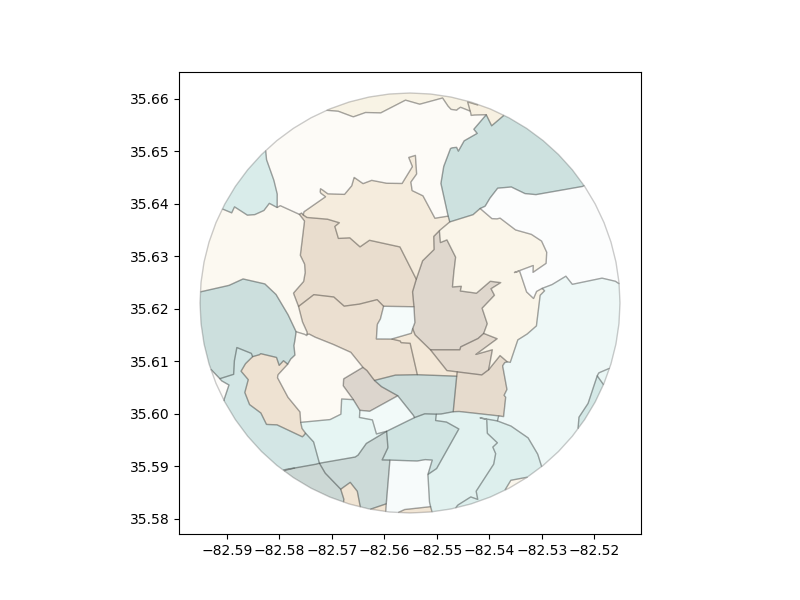
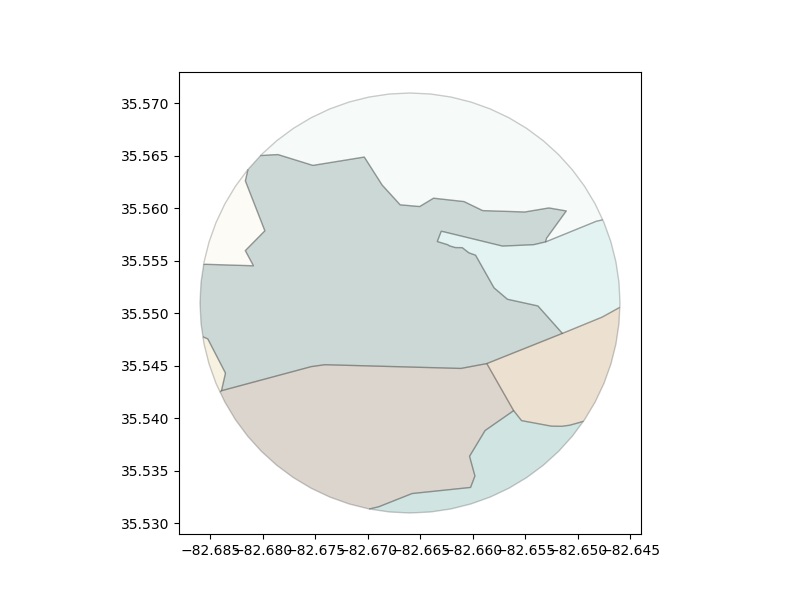
added map of food locs overlaid on block groups and backgound map

diff --git a/main.py b/main.py
@@ -30,10 +30,9 @@ target_address = '627 Swannanoa River Road Asheville, NC 28805-2445'
 if len(sys.argv) == 2:
     target_address = sys.argv[1]
 
-print("Geocoding: {}".format(sys.argv[1]))
+print("Geocoding: {}".format(target_address))
 
-target_loc = gpd.tools.geocode([target_address],
-                               provider='nominatim', )
+target_loc = gpd.tools.geocode(target_address, provider='nominatim')
 
 # we have a successful geocode
 assert len(target_loc) == 1
@@ -81,7 +80,7 @@ target_pnts_df = gpd.GeoDataFrame(target_loc)
 # target_pnts_df.crs = {'init' : mercator_crs}
 # target_pnts_df.to_crs(epsg=mercator_crs)
 
-circles = target_pnts_df['geometry'].buffer(0.04)
+circles = target_pnts_df['geometry'].buffer(0.02)
 circles_df = gpd.GeoDataFrame(circles)
 circles_df.geometry = circles
 circles_df.crs = {'init': 'GRS80'}
@@ -112,11 +111,14 @@ food_coverage.plot(ax=ax, cmap='BrBG', alpha=0.2, edgecolor='k')
 # f.show()
 f.savefig('generated_maps/selected_blockgroups.png')
 
-bun_geo_mecator = bun_geo.to_crs(epsg=3857)
-f, ax = plt.subplots(figsize=(8, 6))
-bun_geo_mecator.plot(figsize=(30, 30), alpha=0.2, edgecolor='k', cmap='YlGnBu', ax=ax)
-add_basemap(ax, zoom=10, url=ctx.sources.OSM_B)
-f.show()
+
+# This works -- as an example of a basemap
+
+# bun_geo_mecator = bun_geo.to_crs(epsg=3857)
+# f, ax = plt.subplots(figsize=(8, 6))
+# bun_geo_mecator.plot(figsize=(30, 30), alpha=0.2, edgecolor='k', cmap='YlGnBu', ax=ax)
+# add_basemap(ax, zoom=10, url=ctx.sources.OSM_B)
+# f.show()
 
 food_coverage['covered_area'] = food_coverage['geometry'].area
 
@@ -163,7 +165,7 @@ work with food locations
 food_geo = gpd.read_file(shapefile_dir + "food_locs.shp")
 print('loaded {} food sources'.format(len(food_geo)))
 
-cont_res = pd.DataFrame(columns=['store name', 'address', 'type'])
+cont_res = pd.DataFrame(columns=['store name', 'address', 'type', 'geometry'])
 for index, row in food_coverage.iterrows():
     # bg_name = row['GEOID']
     bg_geo = row['geometry']
@@ -173,11 +175,32 @@ for index, row in food_coverage.iterrows():
             # containment_result =  containment_result.append([row['STORE_NAME'], row['ADDRESS']])
             cont_res = cont_res.append({'store name': row['STORE_NAME'],
                                         'address': row['ADDRESS'],
-                                        'type': row['type']
+                                        'type': row['type'],
+                                        'geometry': row['geometry']
                                         },
                                        ignore_index=True)
 
 cont_res.sort_values(['type'], inplace=True)
+
+available_food_gpd = gpd.GeoDataFrame(cont_res, geometry='geometry')
+
+food_coverage_mecator = food_coverage.to_crs(epsg=3857)
+available_food_gpd.crs = {'init': 'epsg:4326'}
+available_food_gpd_mercator = available_food_gpd.to_crs(epsg=3857)
+
+
+f, ax = plt.subplots(figsize=(16, 12))
+food_coverage_mecator.plot(figsize=(30, 30), alpha=0.2, edgecolor='k', cmap='YlGnBu', ax=ax)
+available_food_gpd_mercator.plot(ax=ax, color='red', alpha=0.7, edgecolor='k')
+
+food_coverage_mecator.apply(lambda x: ax.annotate(s=x.GEOID, xy=x.geometry.centroid.coords[0],
+                                          ha='center', fontsize=8, color='gray', alpha=0.8),axis=1)
+available_food_gpd_mercator.apply(lambda x: ax.annotate(s=x['store name'], xy=x.geometry.centroid.coords[0],
+                                          ha='center', fontsize=12, color='blue'),axis=1)
+f.savefig('generated_maps/food_in_area.png')
+
+add_basemap(ax, zoom=14, url=ctx.sources.OSM_B)
+f.savefig('generated_maps/food_in_area.png')
 
 # print(result_df[['covered_pop', 'num_unemp', 'num_nohs', 'num_inc_under_50' ]])
 

diff --git a/arg_test.py b/arg_test.py
@@ -1,6 +1,7 @@
 #!/usr/bin/python
 
 import sys
+import geopandas as gpd
 
 print 'Number of arguments:', len(sys.argv), 'arguments.'
 print 'Argument List:', str(sys.argv)
@@ -18,4 +19,10 @@ if len(sys.argv) == 2:
     print("target address is: {}".format(targ_addr))
 else:
     print("something went wrong")
+
+
+print(gpd.tools.geocode("foo", provider='nominatim' ))
+print(gpd.tools.geocode("52 Maney Avenue, Asheville, NC", provider='nominatim' ))
+
+
 
